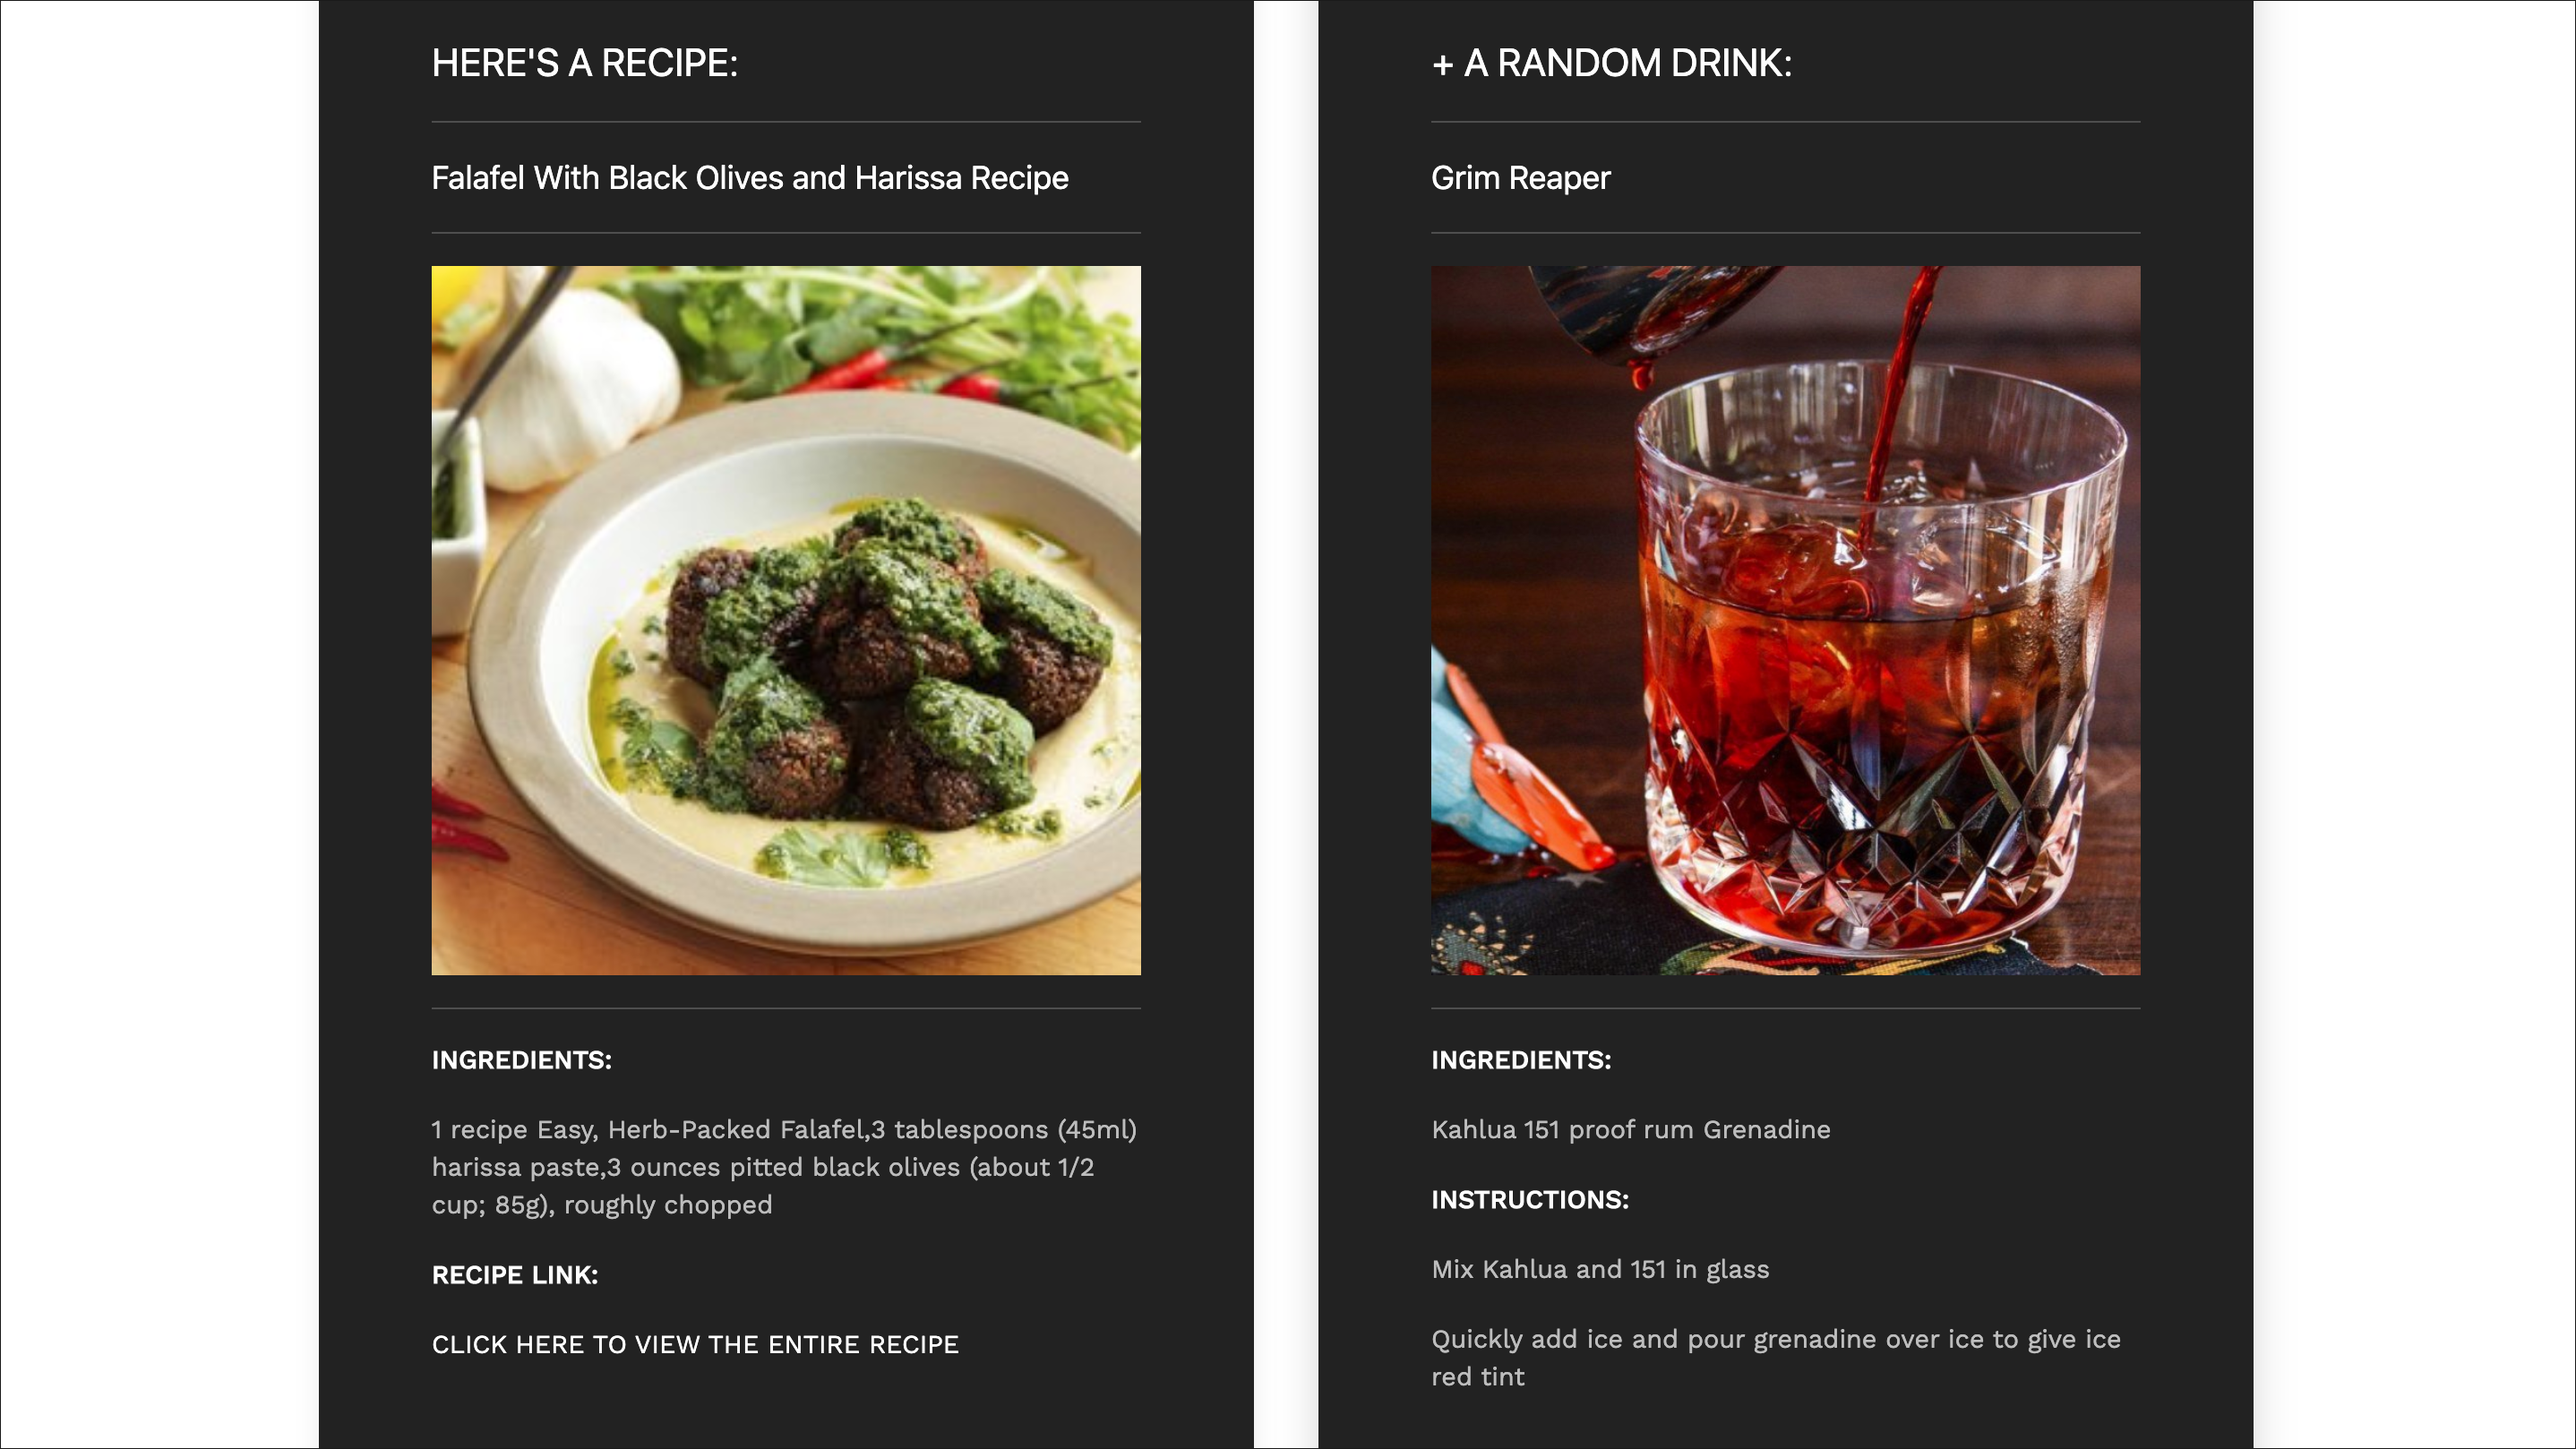
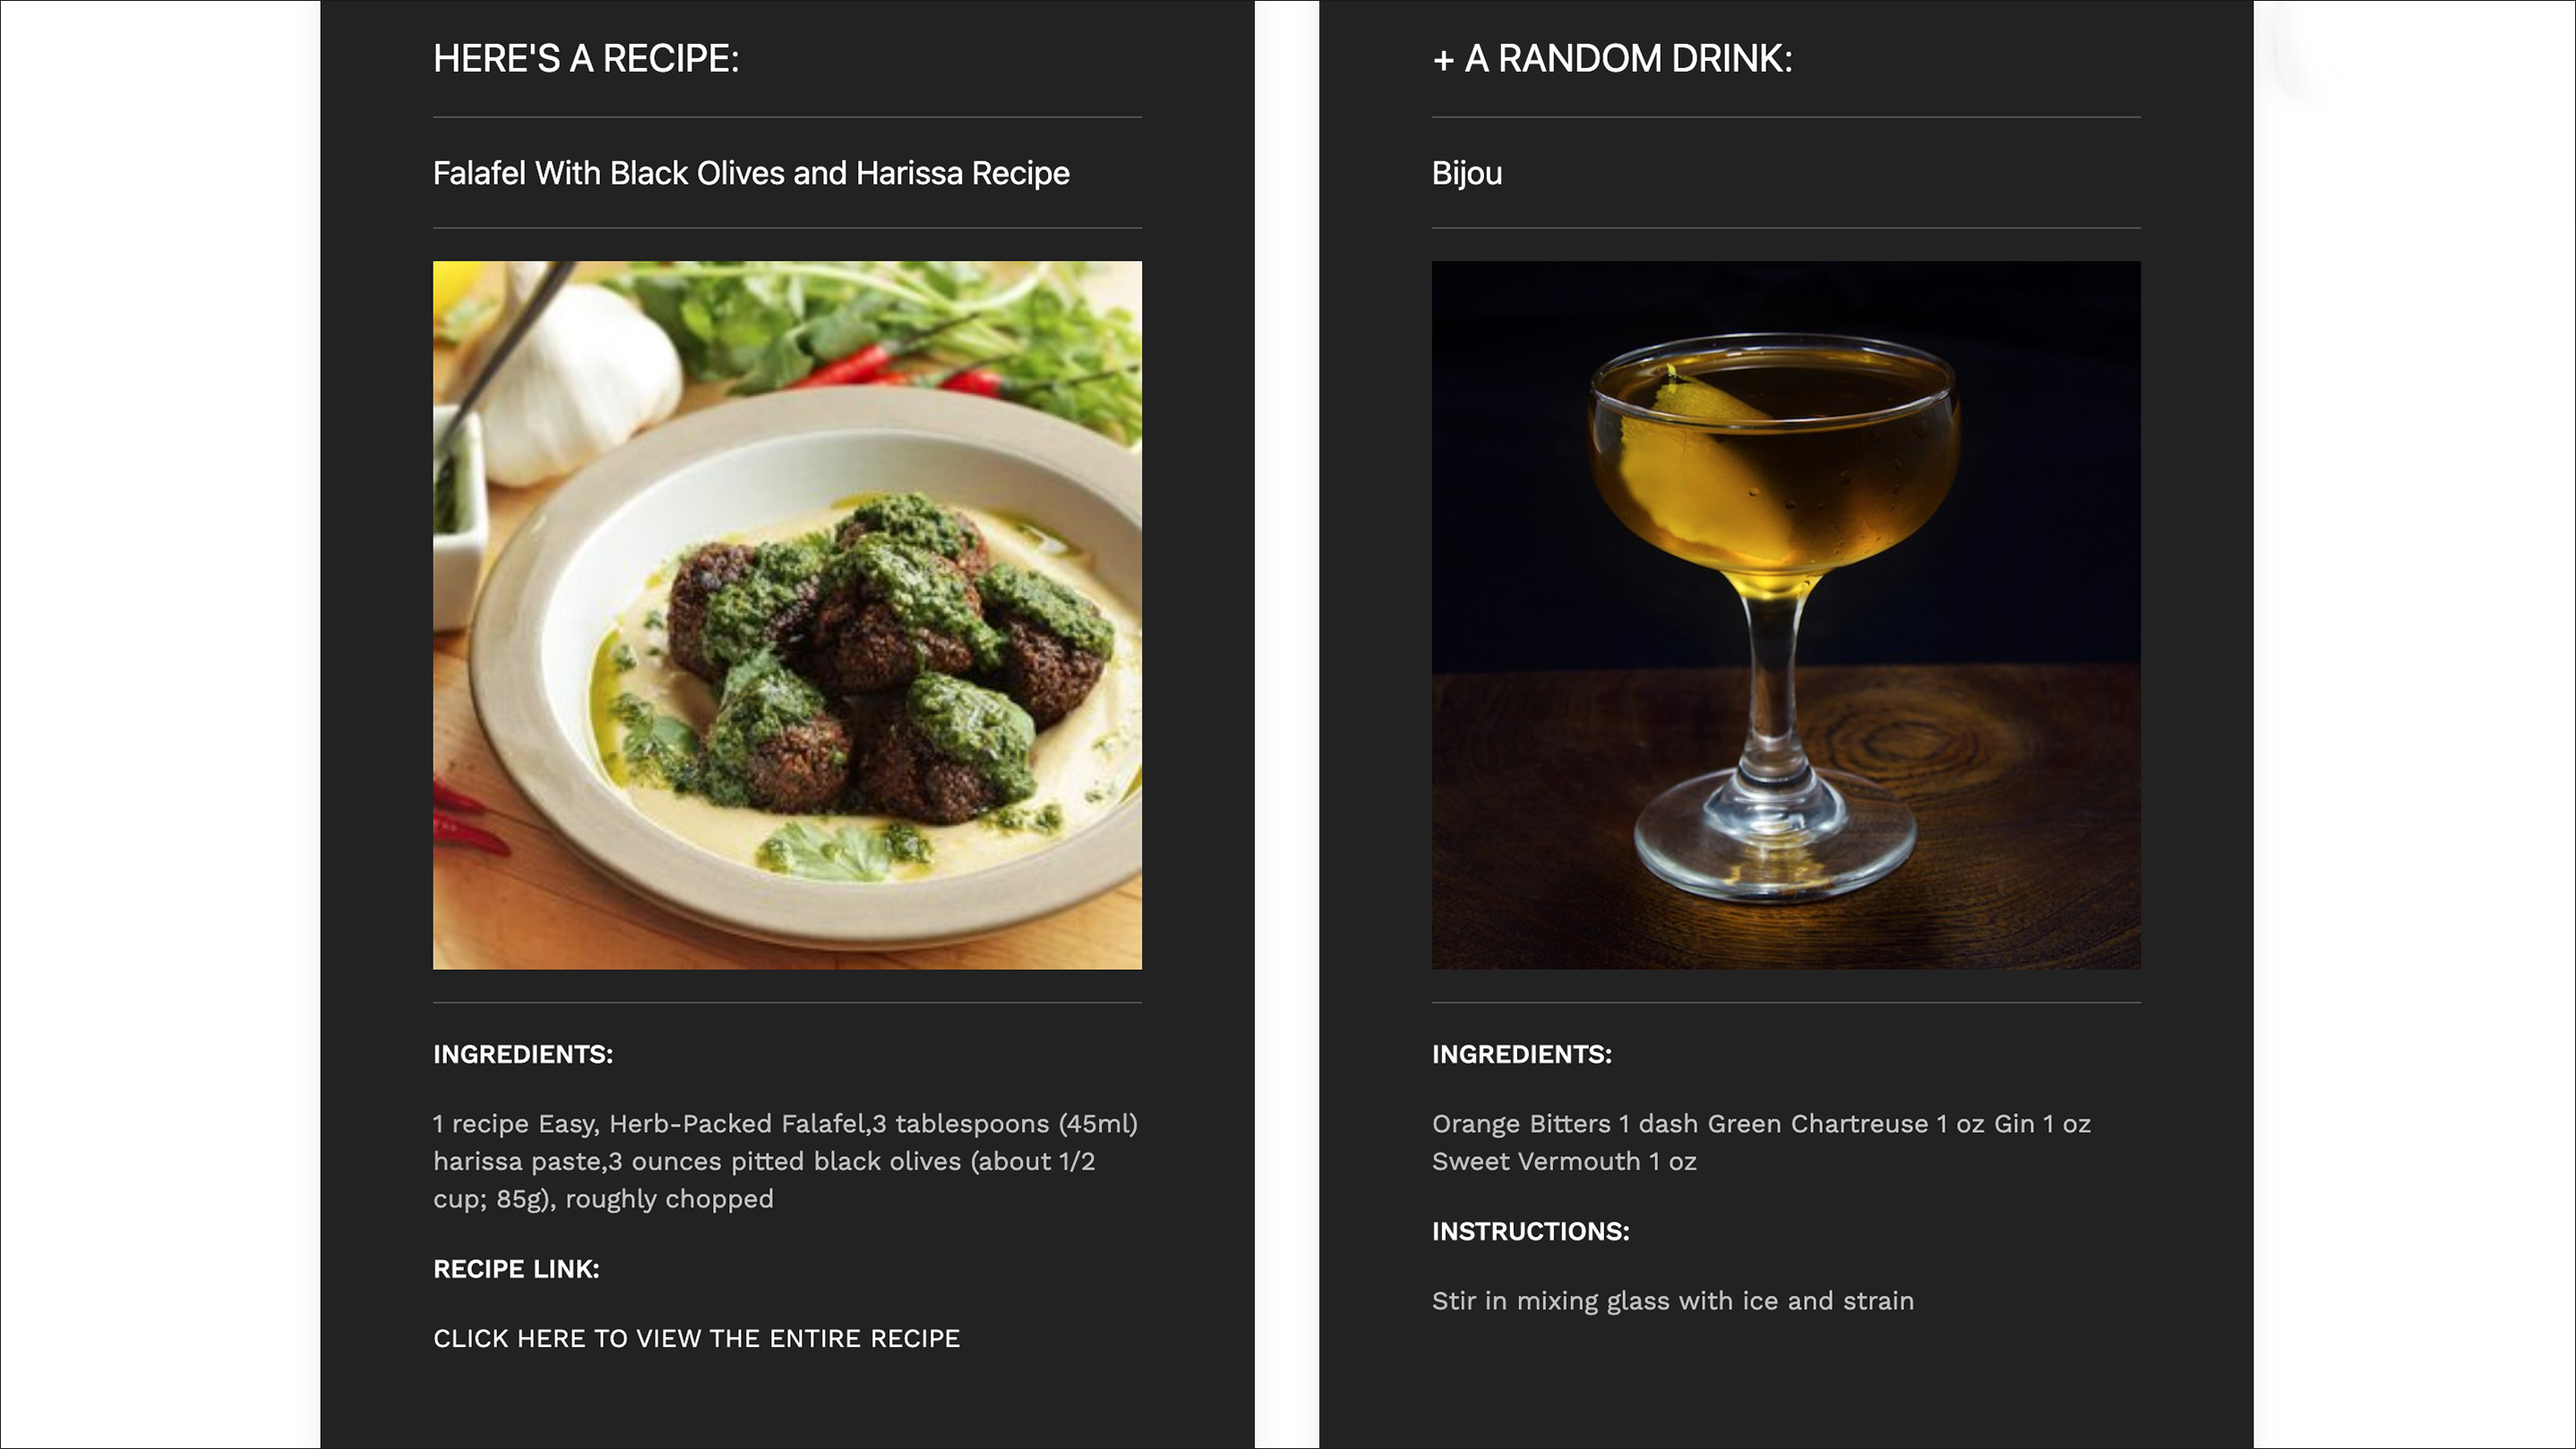
final application updates. drink measurements showing. README updated with final.

diff --git a/script.js b/script.js
@@ -151,7 +151,7 @@ $(document).ready(function () {
                 $("#drinkImage").html("<img src=" + drink_obj.thumb + ">");
 
                 drink_obj.ingredients.forEach(item => {
-                    $("#drinkIngredients span").append(` ${item.name}`);
+                    $("#drinkIngredients span").append(` ${item.name} ${item.measure}`);
                 })
 
                 drink_obj.instructions.forEach(inst => {

diff --git a/README.md b/README.md
@@ -1,14 +1,10 @@
 # Recipe Roulette
 
-
-
-feature/api-testing-javascript-file
-
-Recipe Roulette is a recipe generating app created for anyone who has a general idea of a food they would like to eat. The user enters a food item clicks search then the app returns a meal recipe containing that food and a cocktail. Our goal was to create a user interface that is sleek, modern, and aesthetically pleasing. We used the Framework UI Kit as well as the Work Sans Google Font to achieve this goal.
+Recipe Roulette is a random recipe generating application created for anyone who has a general idea of a recipe they are interested in or an ingredient they would like a recipe for. The user enters a food item, clicks search, and the application returns a result containing that food item or requested recipe. As a bonus to the roulette, we provide the user with a randomly generated cocktail pairing. This is a fun feature, as this result is truly random. If the pairing seems odd, the user can search again and will be presented with another beverage option. When the user receives a random meal recipe result, they are provided with an overview of the ingredients involved and a clickable link which will direct them to the full recipe and cooking instructions in another browser tab. We enjoyed creating this random application, and even found a few interesting recipes ourselves in the process of development. Our goal was to create a user interface that is sleek, modern, and aesthetically pleasing. This application is mobile first, and features a responsive layout that is viewable on a large variety of device types. This project was built using a single HTML file, a single CSS file for styling, a single JavaScript file, and is also linked to the most recent jQuery CDN. For our CSS framework we utilized "UI KIT" by linking to their CDN (https://getuikit.com/). We pulled information for this project from two separate third party application programming interfaces. The first API named "EDAMAM" (https://developer.edamam.com/) which is extremely comprehensive and full of 1.7+ million recipes. The second API was a smaller project "TheCocktailDB" and is completely cocktail specific and has roughly 604 featured drinks (https://www.thecocktaildb.com/). We generated a food related favicon for this project and created it using Favic-O-Matic (https://favicomatic.com/). Our font, "Work Sans" was obtained via Google Fonts (https://fonts.google.com/specimen/Work+Sans).
 
 &nbsp;
 
-Designed for those who are looking to try something completely new for any meal of the day! 
+Recipe Roulette was designed for those who are looking to try something completely new for any meal of the day! 
 
 &nbsp;
 
@@ -42,19 +38,6 @@ Deployed link:  https://albie140.github.io/Recipe-Roulette
 ----------------
 
 &nbsp;
-
-
-
-Recipe Roulette is a recipe generating app created for anyone who has a general idea of a food they would like to eat. The user enters a food item clicks search then the app returns a meal recipe containing that food and a cocktail. Our goal was to create a user interface that is sleek, modern, and aesthetically pleasing. We used the Framework UI Kit as well as the Work Sans Google Font to achieve this goal. 
-
-Designed for those who are looking to try something completely new for any meal of the day! 
-
-
-Deployed link:  https://albie140.github.io/Project1/
-
-![screenshot of app](RecipeRoulette1.png)
-
-
 
 Collaborators:
 
